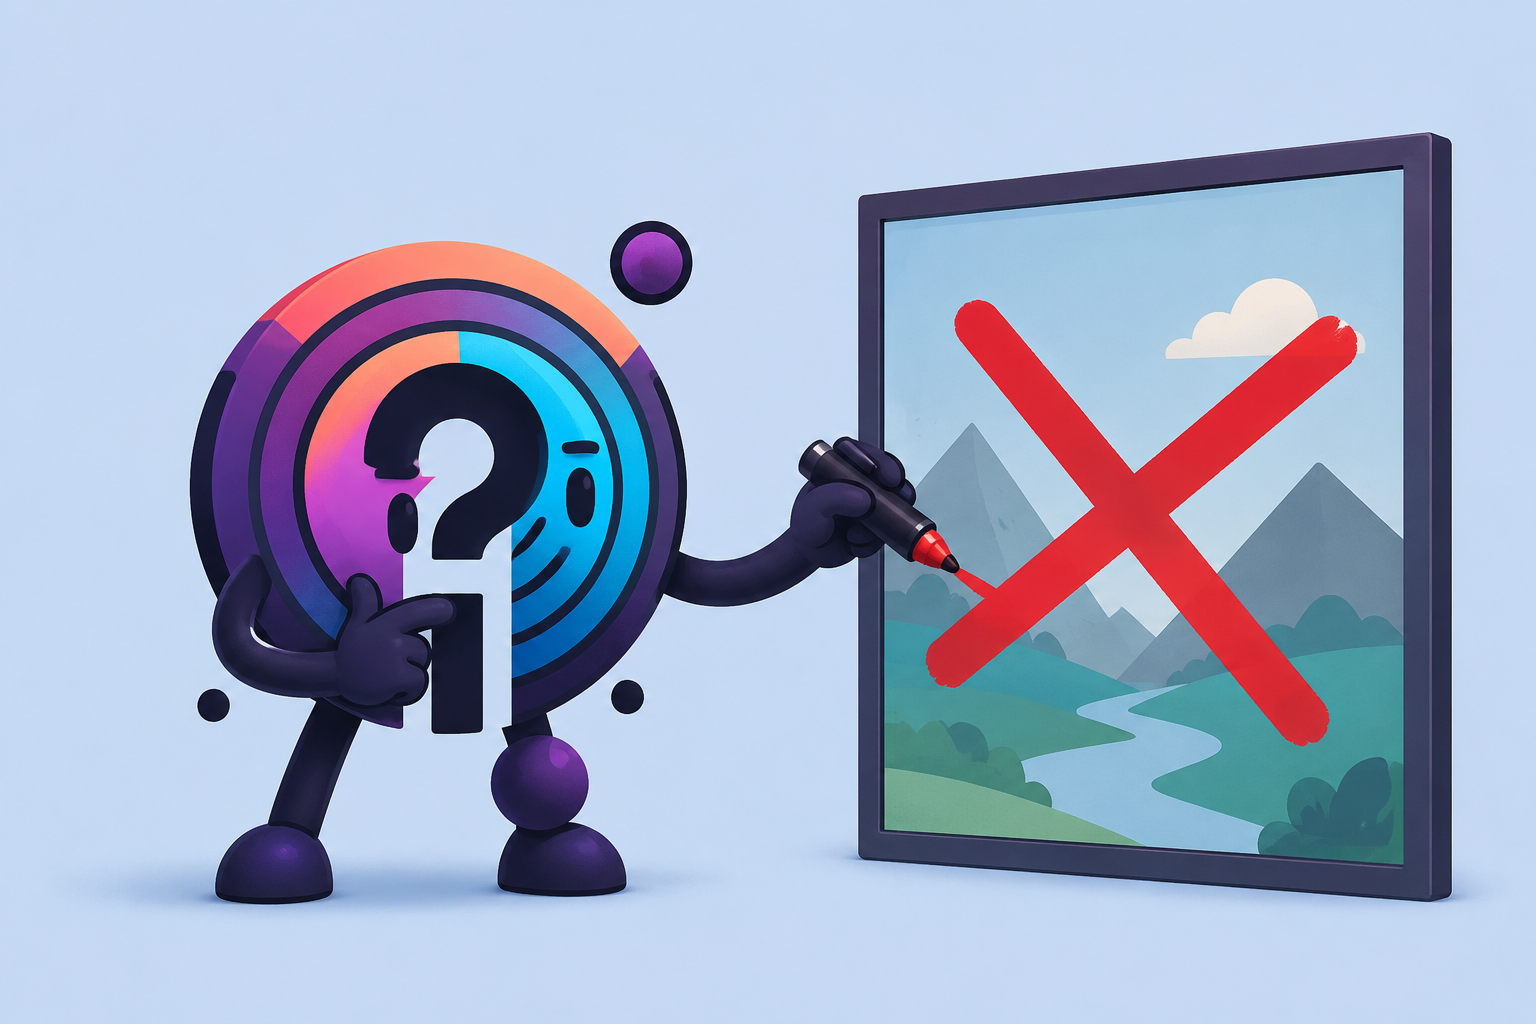
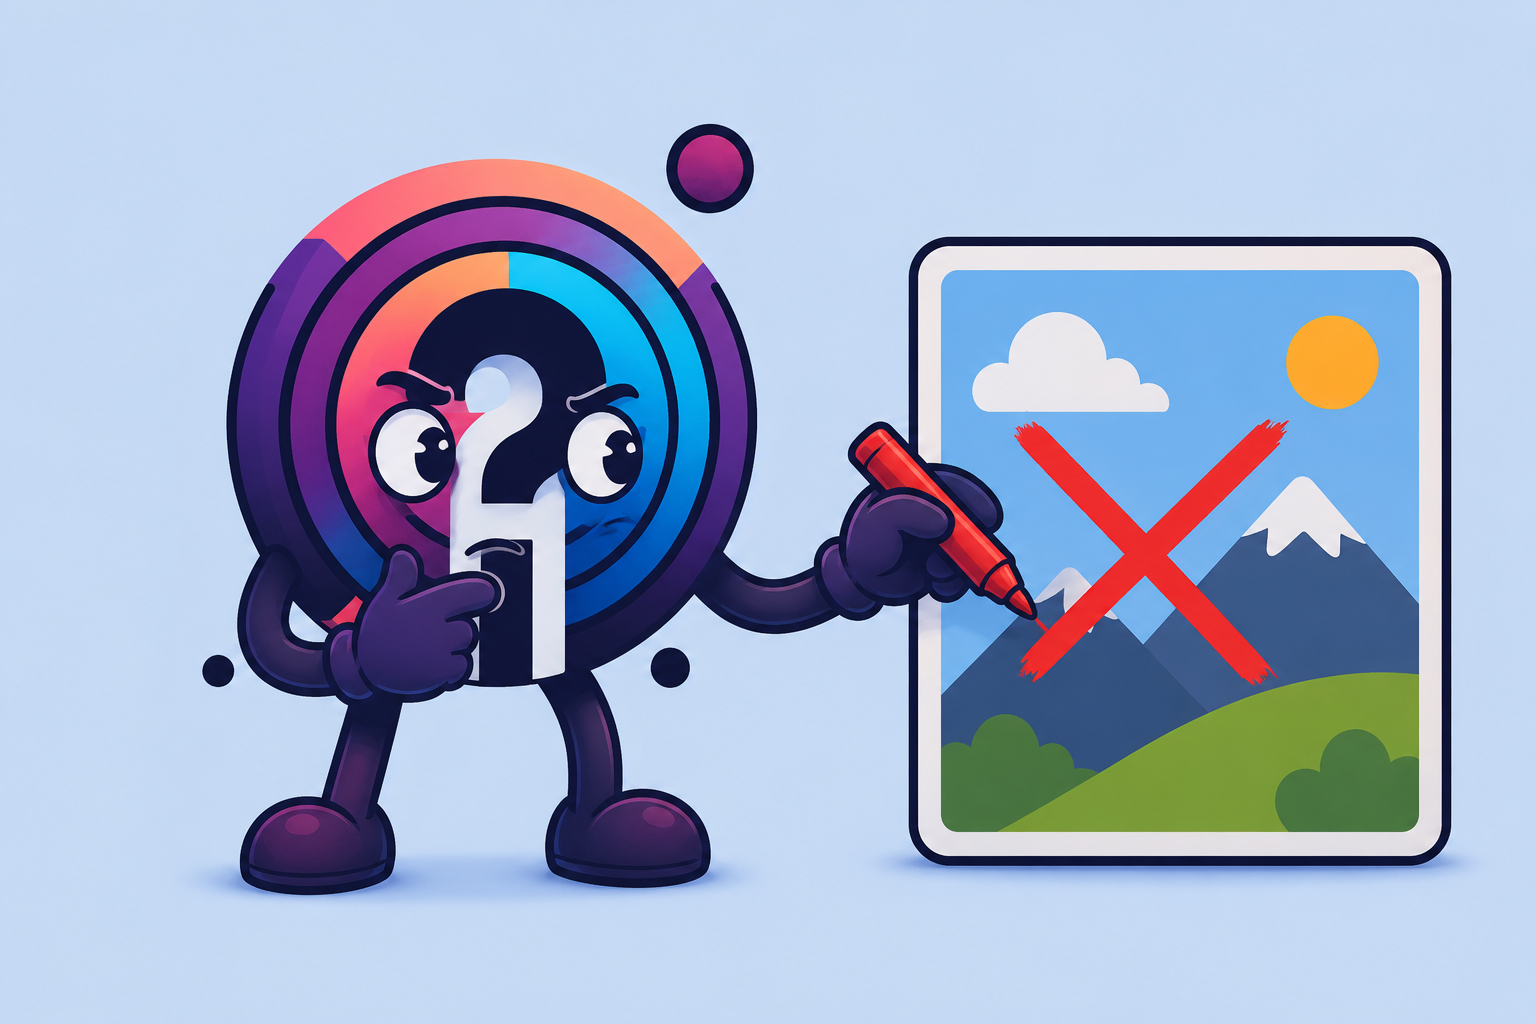
Add new character images and update HomeScreen references

diff --git a/screens/HomeScreen.js b/screens/HomeScreen.js
@@ -15,8 +15,8 @@ import TutorialOverlay from '../components/UI/TutorialOverlay';
 import IconButton from '../components/UI/IconButton';
 
 const HideImage = require('../assets/home/WoIstWaldo-character-hide.png');
-const MainImage = require('../assets/home/WoIstWaldo-character-main.png');
-const RankingImage = require('../assets/tutorial/farm_pict_home_320.jpg');
+const MainImage = require('../assets/home/WoIstWaldo-character-guess-4-3.png');
+const RankingImage = require('../assets/home/WoIstWaldo-character-stats.png');
 
 export default function HomeScreen({ navigation, route }) {
   // States __________________________________________________________________
